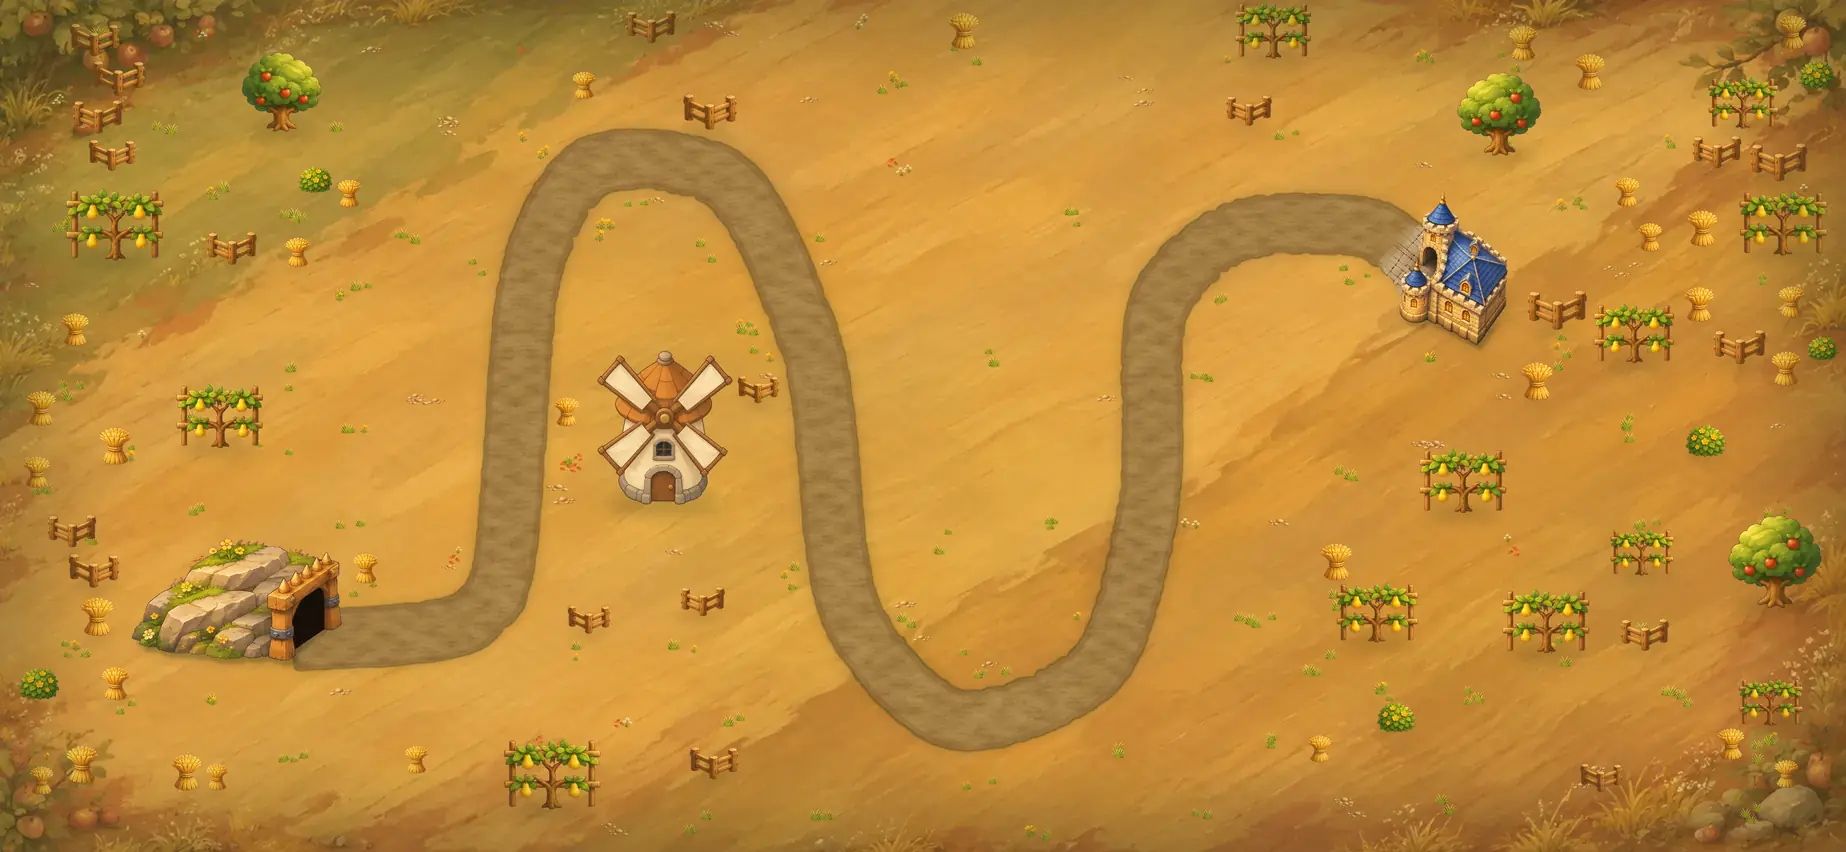
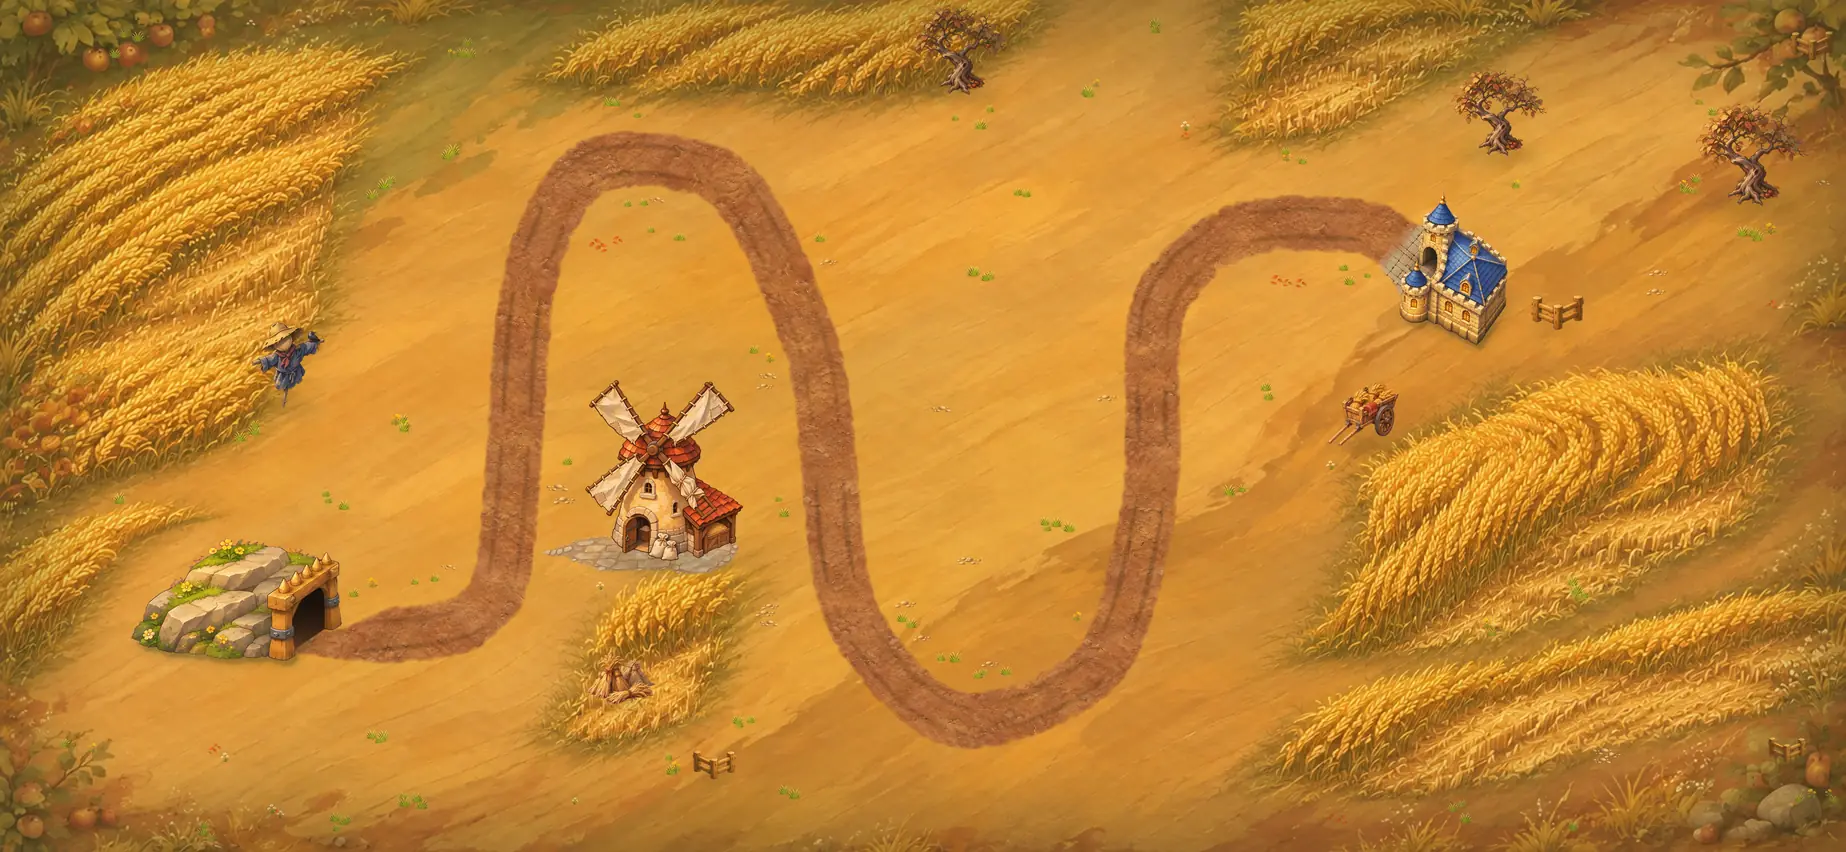
night(codex): round 11

diff --git a/tools/map-compose/compose.py b/tools/map-compose/compose.py
@@ -95,7 +95,7 @@ from banks import shore_foundation  # noqa: E402
 from masonry import RoadArcade, brick_spur, cart_tracks, marble_road, moat_wall  # noqa: E402
 from keeps import Keep  # noqa: E402
 from ground import (  # noqa: E402
-    Decals, DressingArea, brushed_surface, fine_detail, inner_band, paint_over_road, ragged_mask,
+    Decals, DressingArea, brushed_surface, dusty_road_coverage, fine_detail, inner_band, paint_over_road, ragged_mask,
     ring, road_footprint, road_fringe, scatter,
 )
 from ringfit import measure_ring  # noqa: E402
@@ -803,17 +803,20 @@ if 'branchMaterial' in dressing:
     ImageDraw.Draw(branch).line([P(p) for p in first], fill=255, width=round(rw * 1.6), joint='curve')
     dirt = Image.composite(branch_paint, dirt, branch.filter(ImageFilter.GaussianBlur(rw * 0.1)))
     del branch_paint, branch
-# a faint wide shade on the grass along the road, a thin darker rim right at the edge, the dirt,
-# then a narrow darker lip just inside the edge
-shade = road_mask.filter(ImageFilter.MaxFilter(2 * round(rw * 0.05) + 1)).filter(ImageFilter.GaussianBlur(rw * 0.10))
-ground = Image.composite(Image.new('RGBA', (W, H), (70, 52, 30, 255)), ground, shade.point(lambda v: int(v * 0.22)))
-rim_band = ring(road_mask, max(2, round(rw * 0.035)), 0.7 * W / 3692)
-ground = Image.composite(Image.new('RGBA', (W, H), (74, 70, 30, 255)), ground, rim_band.point(lambda v: int(v * 0.50)))
-ground = Image.composite(dirt, ground, road_mask)
-lip = inner_band(road_mask, max(2, round(rw * 0.06)), 1.2 * W / 3692)
-ground = Image.composite(Image.new('RGBA', (W, H), (122, 80, 42, 255)), ground, lip.point(lambda v: int(v * 0.30)))
+if dressing.get('dustyShoulders'):
+    ground = Image.composite(dirt, ground, dusty_road_coverage(road_mask, S, SEED + 51))
+else:
+    # Shade the grass, trace the rim, then lay the road and its shallow inside lip.
+    shade = road_mask.filter(ImageFilter.MaxFilter(2 * round(rw * 0.05) + 1)).filter(ImageFilter.GaussianBlur(rw * 0.10))
+    ground = Image.composite(Image.new('RGBA', (W, H), (70, 52, 30, 255)), ground, shade.point(lambda v: int(v * 0.22)))
+    rim_band = ring(road_mask, max(2, round(rw * 0.035)), 0.7 * W / 3692)
+    ground = Image.composite(Image.new('RGBA', (W, H), (74, 70, 30, 255)), ground, rim_band.point(lambda v: int(v * 0.50)))
+    ground = Image.composite(dirt, ground, road_mask)
+    lip = inner_band(road_mask, max(2, round(rw * 0.06)), 1.2 * W / 3692)
+    ground = Image.composite(Image.new('RGBA', (W, H), (122, 80, 42, 255)), ground, lip.point(lambda v: int(v * 0.30)))
+    del shade, rim_band, lip
 
-del shade, rim_band, lip, dirt, road_hard
+del dirt, road_hard
 keep.apron(ground, castle, S, plots, PLOT_R, PLOT_RY, raw_paths[0])
 
 if ford_patches:

diff --git a/tools/map-compose/test_ground.py b/tools/map-compose/test_ground.py
@@ -10,10 +10,26 @@ from gates import draw_threshold_road, output_sprite
 from keeps import Keep, sample
 from masonry import RoadArcade, brick_spur, cart_tracks
 
-from ground import Decals, DressingArea, brushed_surface, paint_over_road, road_footprint, road_fringe, scatter
+from ground import Decals, DressingArea, brushed_surface, dusty_road_coverage, paint_over_road, road_footprint, road_fringe, scatter
 
 
 class GroundTests(unittest.TestCase):
+    def test_dusty_shoulder_keeps_lane_centre_and_respects_road_boundary(self):
+        profiles = []
+        for scale in (1, 2, 3):
+            mask = Image.new('L', (120*scale, 72*scale))
+            ImageDraw.Draw(mask).rectangle((0, 16*scale, mask.width-1, 56*scale-1), fill=255)
+            coverage = dusty_road_coverage(mask, scale, 71)
+            self.assertIsNone(ImageChops.subtract(coverage, mask).getbbox())
+            self.assertEqual(coverage.crop((0, 32*scale, mask.width, 40*scale)).getextrema(), (255, 255))
+            small = coverage.resize((120, 72), Image.Resampling.BOX)
+            shoulder = np.asarray(small)[17].astype(float)
+            self.assertGreater(shoulder.max() - shoulder.min(), 60)
+            self.assertLess(shoulder.max(), 255)
+            profiles.append(shoulder)
+        for profile in profiles[1:]:
+            self.assertLess(np.abs(profiles[0] - profile).mean(), 12)
+
     def test_keep_sampling_interpolates_the_front_into_the_transparent_border(self):
         # The fifth channel is the depth-sorted front, separate from the RGBA painting.
         texel = np.array([40, 80, 120, 200, 160], dtype=np.uint8)

diff --git a/tools/map-compose/ground.py b/tools/map-compose/ground.py
@@ -97,6 +97,14 @@ def ragged_mask(hard: Image.Image, soft_r: float, cell: int, amp: float, seed: i
     return Image.fromarray((m * 255).astype(np.uint8), 'L')
 
 
+def dusty_road_coverage(mask, scale, seed):
+    """Let loose field soil show through the shoulder of a worn road, inside its footprint."""
+    soft = mask.filter(ImageFilter.GaussianBlur(4 * scale))
+    clumps = value_noise(*mask.size, 5, seed, scale).point(lambda v: round(v * .27))
+    edge = ImageChops.add(soft, clumps, offset=-35).point(lambda v: (v - 110) * 2.65)
+    return ImageChops.multiply(mask, edge)
+
+
 def ring(mask: Image.Image, grow: int, blur: float) -> Image.Image:
     """Band just outside `mask`, `grow` px wide, lightly blurred."""
     g = mask.filter(ImageFilter.MaxFilter(2 * grow + 1))

diff --git a/design/art-2d/v2/biomes/orchard/switchback.md b/design/art-2d/v2/biomes/orchard/switchback.md
@@ -1,0 +1,49 @@
+# Windmill Switchback
+
+The harvest runs from the west cornfield to the threshing floor inside the first hairpin. Tied stooks stand in the cut strip south of the mill. A cart waits at the east field. The jackdaw on the scarecrow's sleeve links the scene to *Scarecrow's Gambit*, the tenth wave.
+
+The new sails and grain shed occupy 181 layout pixels of height. The mill stands 55 pixels farther south, so the tower on the inner north bend has room behind the sails. A flat, tapering apron grounds the doorway. Its western stones lead toward the wagon road. The seven fields have an exclusion mask for loose scenery and ground decals. The two fields nearest plots 0 and 13 narrow at their inner edges.
+
+The wheel ruts follow the existing road spline. Small offset swatches of the loam painting keep the stones in scale with the cart. At the shoulders, field soil shows through in irregular patches. Both entrance jambs and the east keep retain their saved positions.
+
+Rebuild the four map textures and their gate fronts from the checkout root.
+
+```sh
+/usr/bin/python3 -B tools/map-compose/rebake_all.py i05
+```
+
+## Source paintings
+
+The built-in ImageGen tool produced these eight paintings. The finished kit keeps the generated alpha on the freestanding objects and the floor.
+
+### terrain-i05.webp
+
+Repaint this extra-wide original storybook tower-defense battlefield terrain plate, preserving its exact framing, aspect and registration. The flat bright yellow polygons are placement guides. Replace only these guides with lovingly brush-painted patches of ripe wheat in oblique aerial view, at the scale of individual thumb-sized kernels in this miniature landscape. Upper west large parcel: standing tawny golden ears bend in softly curved diagonal furrows, broken with a few muted russet poppies and short harvested swaths. Southeast: contrasting direction of curving wheat rows, partially reaped and with cut stubble. The three small parcels are a mix of stubble and late wheat. Densely painted irregular natural borders where stalks trail off into low olive and warm earthen headlands. The surrounding terrain between the fields is quiet ochre pasture. Varied low-relief marks, ochre shadows, cool olive at the stems, wheaten sunlight. Warm gouache, broad readable shapes, thin dark ochre contours. No hard polygon outlines or yellow guide remaining, no fences, bundles, trees, paths, buildings, people, sky, text, circles or UI. Full bleed.
+
+### landmark-harvest-mill.webp
+
+Original hand-painted storybook tower defense landmark sprite, transparent background with generous padding, view steeply down at a three-quarter angle onto a single working flour windmill. A squat tapering warm limestone tower with courses of stone near the ground, honeyed plaster and small arched open door facing lower left, dark oak trim, a copper-red shingled cap. Four distinct expressive windmill sails in an X on a common hub with weathered oatmeal sailcloth laced to dark wooden lattice spars. One partly reefed sail exposes the ladder at its tip. Small attached lean-to grain shed under a red tile roof at right, two tied flour sacks by the door. Entire design compact and readable like a painted miniature, silhouette roughly square and a bit taller than wide, perspective with visible roof planes. Clear inked dark umber edges, matte warm gouache brushwork, broad planes of light upper left and shade under eaves. No ground tile, landscape, cast shadow, people, lettering, labels or surrounding scene.
+
+### landmark-threshing-floor.webp
+
+Original storybook game ground decal painted in warm gouache, with a truly transparent background. Broad, narrow, slightly irregular oval patch of old threshing-floor paving viewed from steep overhead three-quarter angle, about three-and-a-half times wider than tall. A worn central bed of flat staggered ochre sandstone setts with uneven shapes, cracked joints full of fine earth and straw, the western end narrows to a short spill of four half-buried walking stones, the eastern end widens into a small roundish working apron for a stone windmill. Edges dissolve into loose individual stones and earth. Soft warm brown lines, quiet desaturated buff limestone dusted with flour, sunlight upper left. The flat paving itself is the whole subject, silhouette compact, no lifted platform, no thick border, no tall object, no building, no tools, no signs or text, no grass lawn, no cast shadow. Entirely flat low contrast surface, seen from an aerial game camera; generous padding.
+
+### harvest-loam.webp
+
+Seamless-looking broad landscape surface painting of the surface of a well-used medieval harvest wagon lane from straight overhead, used as a texture under a curved road mask for a hand-painted fantasy storybook landscape. Fill the whole wide frame with sunbaked ochre-brown and sienna loam. Many small irregular angular warm grey stone chips half submerged in packed clay, subtle brush-shaped copper dry patches and ochre dusty areas, small occasional broken straw splinters. Keep the largest single pebble less than half a percent of the image width. Small curved shrinkage cracks in scattered pockets. Restrained contrast, mostly calm road earth. Tiny crisp gouache strokes and rubbed broken ochre-ink edges give material texture at close zoom. Broad even daylight, no big shadows. No road edges, horizon, linear ruts, paths, arrangements, tessellations or plants. No objects, no text. Extra-wide full bleed texture plate.
+
+### landmark-sheaf-cart.webp
+
+A single original storybook game scenery sprite on transparent background: a weathered two-wheeled oak harvest cart laden with ochre cut wheat sheaves tied with russet cord, two chunky dark spoked wheels with iron tyres, long wooden shafts pointing down-left resting on the ground. A rolled brick-red blanket over the near rail gives it a distinct color accent. Steep overhead three quarter camera from the front, wooden bed and one wheel visible. Compact silhouette and bold simple shapes clear at a 75-pixel game height. Warm gouache with subtle inked umber edges and softly shaded painted volumes, sunlight upper left. Full object isolated with padding. No horse, no people, no ground patch or platform, no text or shadow.
+
+### landmark-crow-keeper.webp
+
+Original 2D hand-painted storybook tower defense scenery sprite on a transparent background. An original single scarecrow made by a wheat farmer, a small crooked alder crosspiece on one narrow planted stake. A faded indigo-blue work smock suspended from the crosspiece, a twisted maroon neckerchief, an old straw sun hat over a simple blank burlap sack for a head, with a little black jackdaw perched on one sleeve. Sparse tufts of straw poking from each sleeve. The crossbar tilts a little. Quiet, weathered and charming. One small peg at the base, no ground tile. From a steep three-quarter overhead angle. Reads as an inanimate farm implement with a strong blue and ochre silhouette, not as an armed or moving creature. Warm matte gouache, clear dark umber contour, grouped light and shade in broad readable forms, sun from the upper left. No text or border.
+
+### autumn-apple.webp
+
+Original 2D hand-painted storybook tower defense scenery sprite on a transparent background. A single old small orchard apple tree in late autumn, with a gnarled leaning forked trunk, grey brown crooked branches revealing the architecture of the tree, a loose asymmetric umbrella crown of russet, muted olive and dusty honey-colored leaves and just a handful of ripe red apples. A tiny group of three windfall apples tucked at the root on the right. The trunk is wide enough for legibility. Steep three-quarter overhead view of the full tree and trunk as a compact miniature. Fully contained cutout on transparent background. No ground platform, lawn, crates or fence. Warm matte gouache, clear dark umber contour, grouped light and shade in broad readable forms, sun from the upper left. No text or border.
+
+### landmark-stooks.webp
+
+A single compact group of freshly harvested wheat in a storybook farming landscape, painted game sprite on transparent background. Two leaning stooks made from several ochre wheat sheaves stacked together upright like little conical tents with their cut ends splayed on the ground, one older straw hummock behind and one loose tied sheaf lying diagonally in front. Dark rust twine, grain-head textures near tops, matte weathered straw. No crates, no hay bales, no fence, no farmland ground tile. Aerial three-quarter game perspective. Entire group grounded and framed with air around the silhouette. Original hand-painted gouache, grouped warm ochre highlights, russet shadow, finer dark contour than a UI icon. Soft sunlight from upper left. No text.

diff --git a/docs/overnight/PROGRESS-codex.md b/docs/overnight/PROGRESS-codex.md
@@ -1,5 +1,28 @@
 # Content overnight · codex
 
+## Round 11 · 02:49–03:06 UTC · codex/night
+
+Started from `0b11b4f`. The working tree is ready for the overnight runner.
+
+### Done
+
+- **i05 Windmill Switchback.** Seven wheat fields follow the two hairpins. A loaded cart waits at the eastern headland, tied sheaves stand in the cut strip south of the mill, and a jackdaw perches on the scarecrow's sleeve at the western field. The crop mask keeps scattered trees and flowers out of the rows. Pulled the grain back from plots 0 and 13 after the first placement check. [Before and after maps with native 2× details](maps-round11-switchback.jpg)
+- The mill has cloth sails, a grain shed and a worn threshing floor. Moving it 55 layout pixels south freed space between its sails and the northern tower. Wheel ruts follow both bends on a loam road whose dusty shoulders break up into the surrounding field soil. Adjusted the road's departure from the two painted doorposts at the west entrance. [Eight source paintings, prompts and rebuild command](../../design/art-2d/v2/biomes/orchard/switchback.md)
+
+### Verification
+
+- Played Whirlwind at tick 181 with five towers and nine enemies, and Harvest Dreadnought at tick 510 with 15 towers and 67 enemies. All six before/after pairs matched on tick, ground-enemy positions, total enemies, tower builds, gold, lives, camera fit and gate texture widths. Desktop used 1920 × 1080 at DPR 1 and 2. Phone used 844 × 390 at DPR 3. Both high-density desktop frames loaded the native 3× map. An interrupted DPR 2 capture was rerun. The upper sails pass behind the flyers in the finale. The mill doorway, shed and apron remain visible. [Desktop combat](maps-round11-desktop.jpg) · [Phone combat at CSS size](maps-round11-phone.jpg)
+- Re-baked with `--keep-plots`. A clean second bake reproduced all eight i05 map and gate textures byte for byte. All 25 saved layouts match the starting revision byte for byte and passed the geometry checks. Decoded all 100 maps and 132 gate fronts at their registered dimensions. All four i05 foreground alpha channels match the originals. The west cave retains its existing 34 px bleed beyond the desktop safe area. The eight i05 textures grew by 863,926 bytes in total. The 1.5× map used on phone grew by 113,114 bytes.
[1 lines of base64/hex data omitted]
+
+### Requests for other agents
+
+Chapter two still awaits the shared roster, clip/death callback, story and Turkish registrations from earlier rounds, and the i21 horn placement. Round eleven adds scenery to a shipping island and introduces no player-facing strings.
+
+### Next round
+
+Inspect i03 Highland Citadel. Its subtitle and intro show waterfalls below a snow-pine mountain keep. The current map has a pale gravel spiral on a flat snowfield with scattered rocks. Check the outer cliffs for room to show a waterfall, its upstream water and the drop below it. Keep both castle silhouettes legible on phone, and retain the road, west entrance, goal and all 22 plots. If the chapter registrations have landed, verify the shipping unlock, stories and first kills first.
+
 ## Round 10 · 02:27–02:49 UTC · codex/night
 
 Started from `c5acb4b`. The runner owns the commit.
